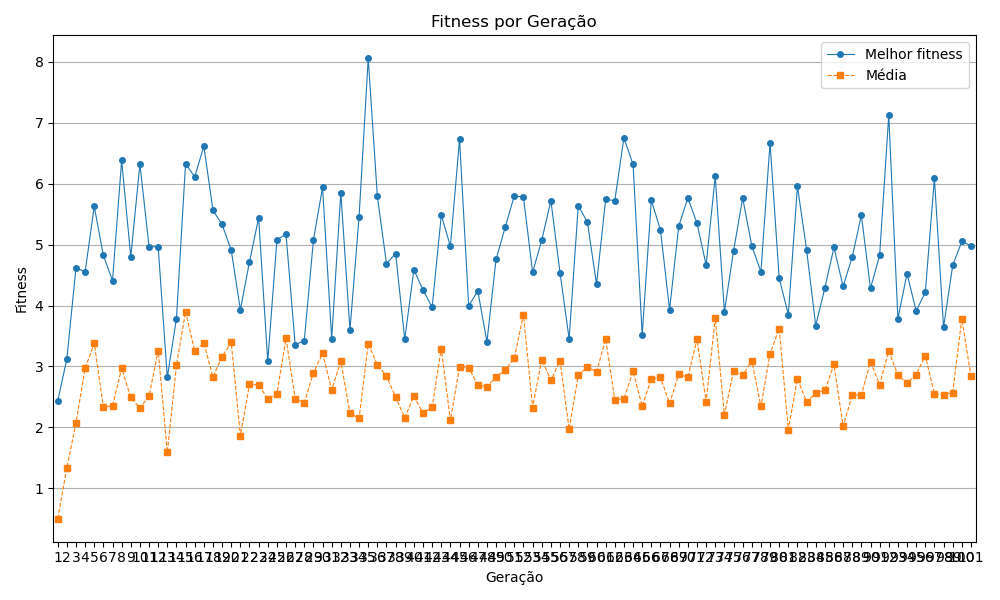
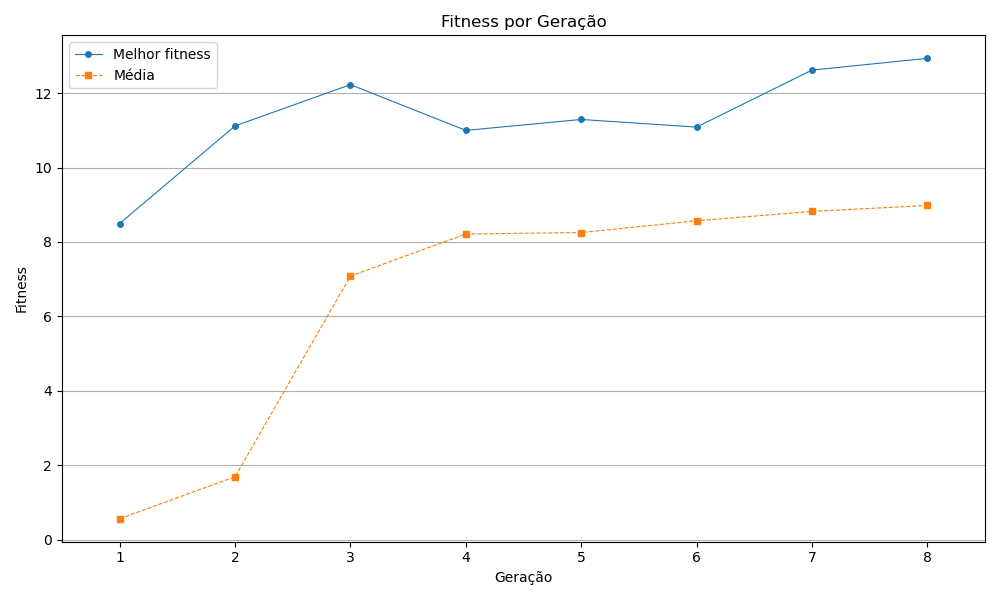
organization of video plot scripts

diff --git a/src/visualization/videos/grouping.py b/src/visualization/videos/grouping.py
@@ -15,8 +15,8 @@ from matplotlib.animation import FuncAnimation, FFMpegWriter
 num_robots = 10
 diameter_robot = 7.4
 world_size = 316  # in cm, should match simulation setup
-generation = '020'
-simulation_timestamp = '20-10-2025 00-51-57'
+generation = '100'
+simulation_timestamp = '20-10-2025 03-45-27'
 
[1 lines of base64/hex data omitted]
 num_simulations = 40
@@ -26,11 +26,11 @@ rows, cols = 4, 10
 fps = 10  # frames per second in output video
 
 # Trajectory (trail) configuration
-enable_trails = True
+enable_trails = False # set to True to enable trails
 trail_length = 40  # number of previous positions to draw (like plot_40)
 
 #update this line, there is no ending with 0.csv, there is no such files
-robot_files = [f for f in sorted(os.listdir(base_dir)) if f.endswith('_0.csv')][:num_simulations]
+robot_files = [f for f in sorted(os.listdir(base_dir)) if f.endswith('_1.csv')][:num_simulations]
 
 # Read all data
 robot_trajectories_x_all = []

diff --git a/src/Genetics/Algorithm/GeneticAlgorithm.cpp b/src/Genetics/Algorithm/GeneticAlgorithm.cpp
@@ -33,7 +33,7 @@ public:
             std::cout << population[i] << " Fitness: " << fitnesses[i] << std::endl;
         }
 
-        int num_generations = 20;
+        int num_generations = 100;
         // Clustering: Each evolution was run for 1000 generations. (GAUCI)
         for (int i = 1; i <= num_generations; i++) {
             population = this->createNextPopulation(population, fitnesses);
@@ -138,7 +138,7 @@ private:
     }
 
     individual_type mutate(const individual_type& child) {
-        double chance = 0.0075;
+        double chance = 0.005;
         
         std::uniform_real_distribution<double> distr(0, 1);
         individual_type mutated_child = child;

diff --git a/src/Scenarios/grouping/GroupingEvaluator.cpp b/src/Scenarios/grouping/GroupingEvaluator.cpp
@@ -52,7 +52,7 @@ public:
 			}
 
 			data_writer->writePositions(generation, id, data_collector->getData(), individual, i);
-			data_writer->writeDispersion(generation, id, dispersions, individual, i);
+			// data_writer->writeDispersion(generation, id, dispersions, individual, i);
 
 			// Setting fitness to 1/(1 + cost), as the algorithm's goal is to maximize it
 			double fitness = (1.0 / (1.0 + cost)) * 100000000; // Scaling to avoid very small numbers

diff --git a/src/visualization/fitness/fitness.py b/src/visualization/fitness/fitness.py
@@ -3,7 +3,7 @@ import statistics
 from pathlib import Path
 import numpy as np
 
-base_dir = Path('/home/anachiarelli/projects/udesc/tcc/simulation/output/grouping/20-10-2025 00-51-57')
+base_dir = Path('/home/anachiarelli/projects/udesc/tcc/simulation/output/grouping/20-10-2025 15-47-53')
 
 fitnesses_by_generation = []
 
